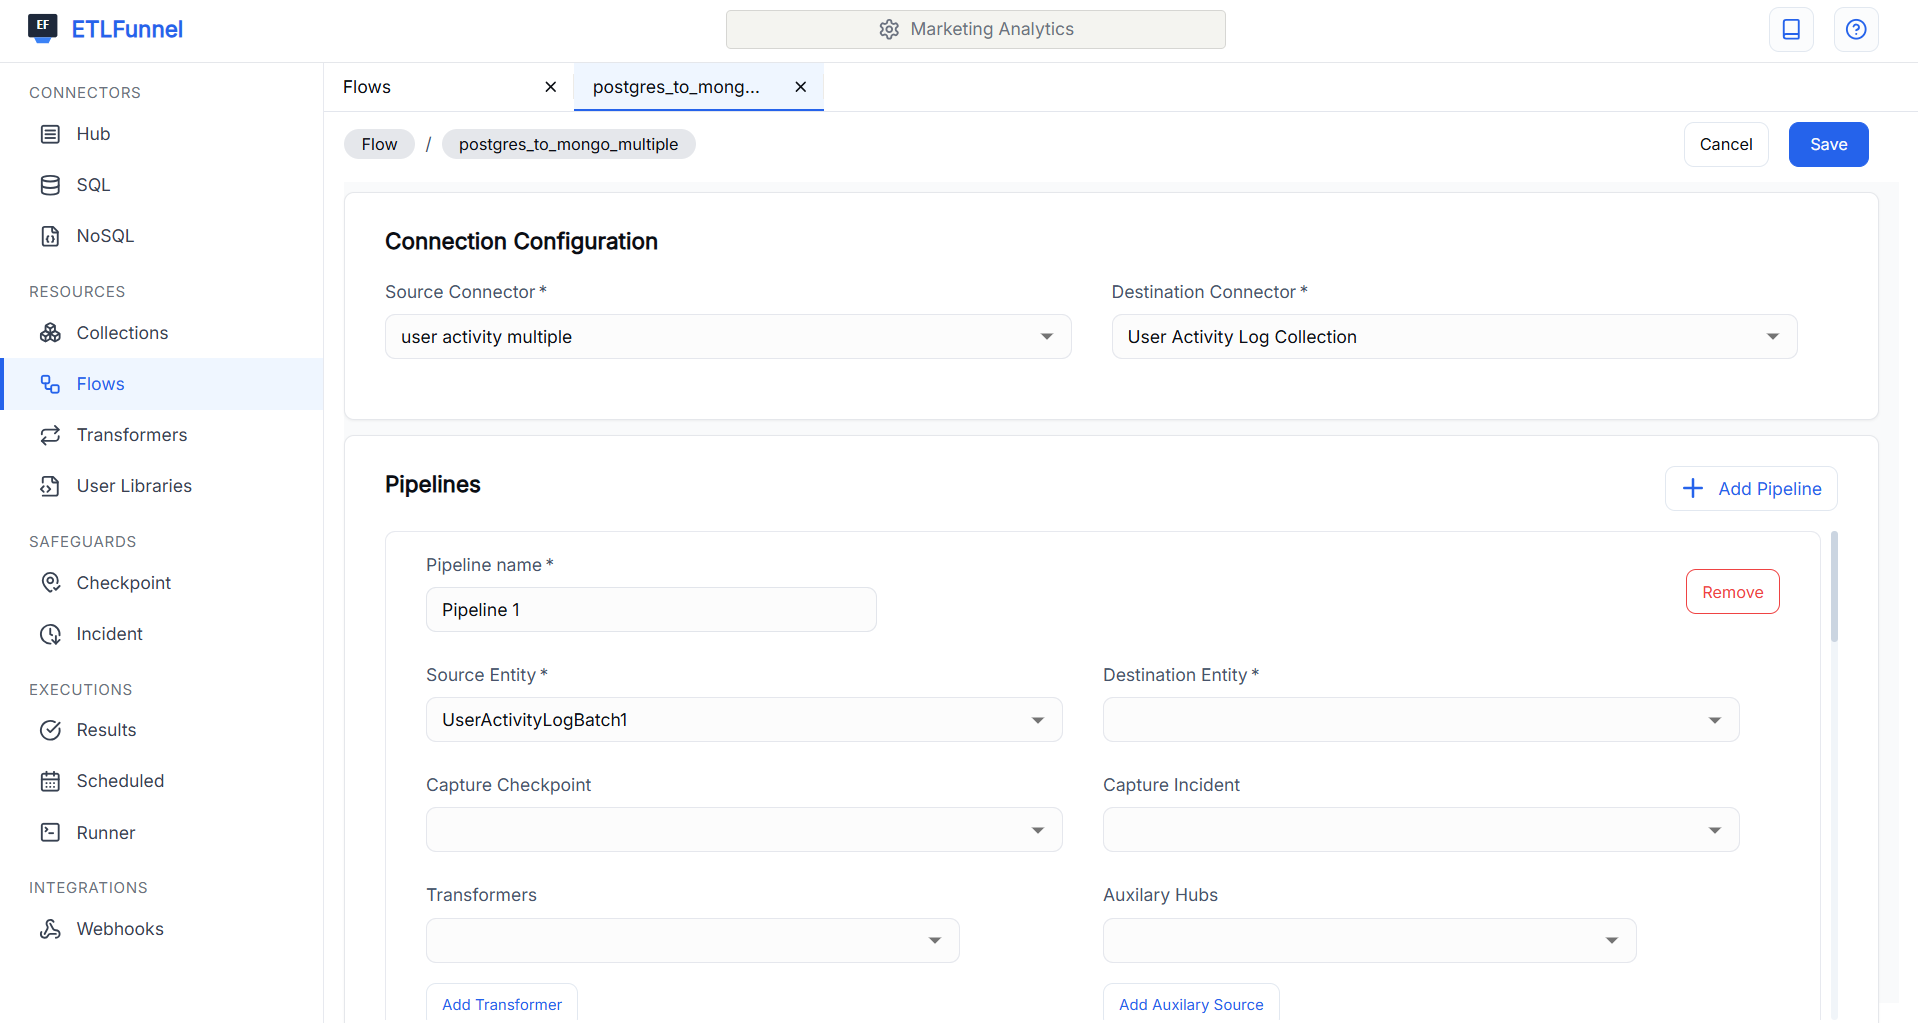
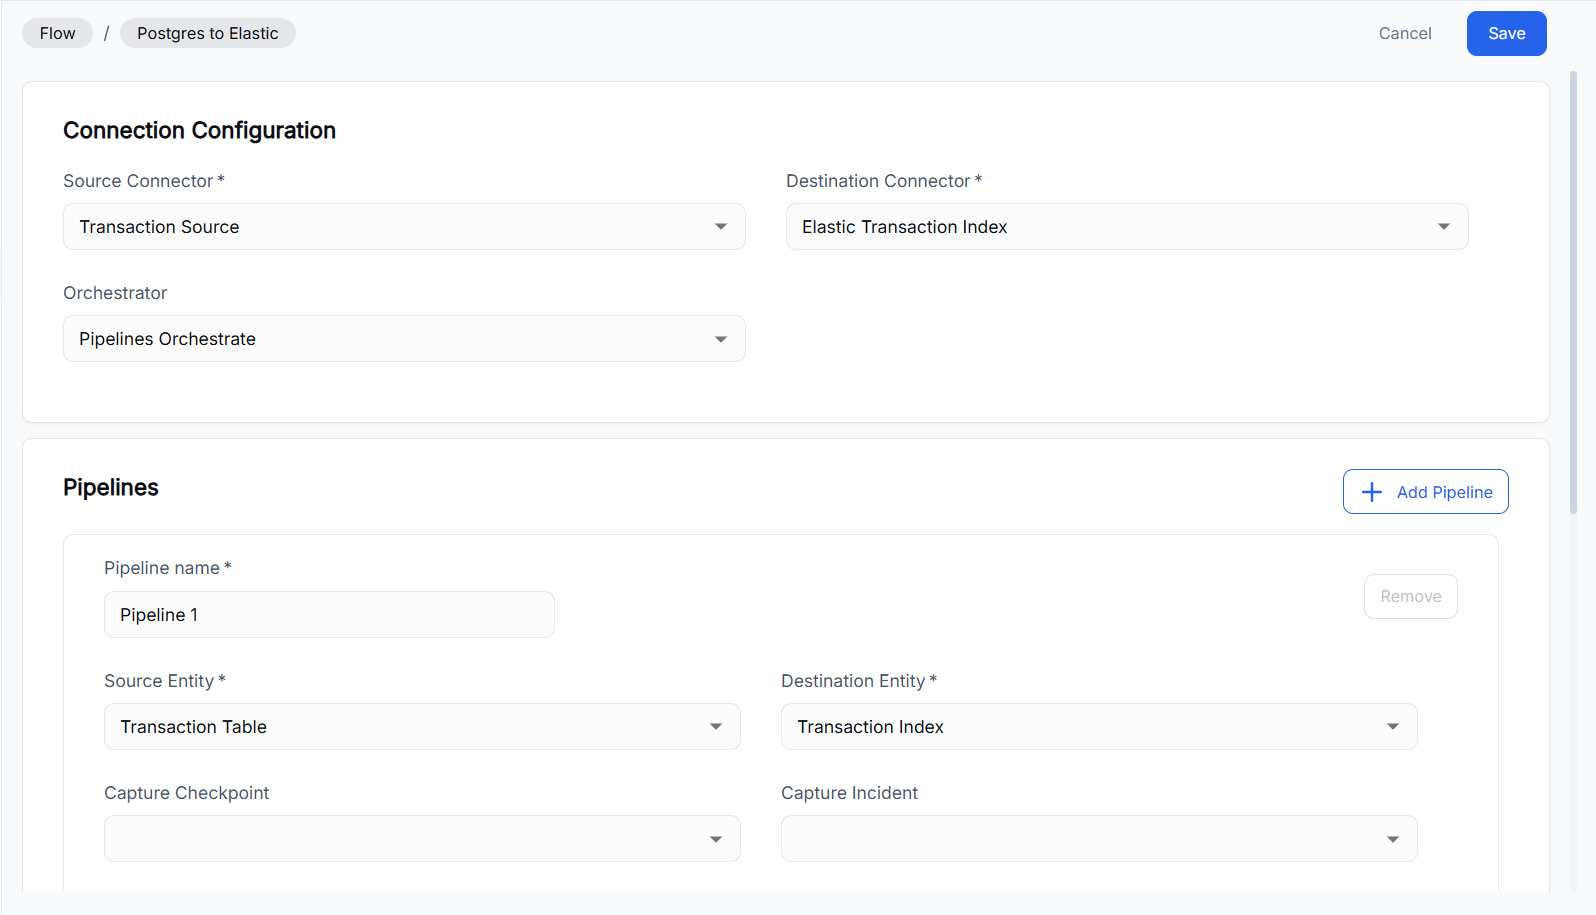
003: added orchestration

diff --git a/sidebars.ts b/sidebars.ts
@@ -37,7 +37,7 @@ const sidebars: SidebarsConfig = {
             collapsed: false,
             type: 'category',
             label: 'Resources',
-            items: ['resource-flow', 'resource-collection', 'user-libraries'],
+            items: ['resource-flow', 'resource-collection', 'resource-orchestrator', 'user-libraries'],
         },
         {
             collapsed: false,

diff --git a/docs/resource-orchestrator.md b/docs/resource-orchestrator.md
@@ -1,0 +1,169 @@
+# Orchestrators
+
+Dynamic Orchestration — tuning your ETL workload based on the machine and the data it's running on.
+
+## Use Case
+
+You've got 10 flows syncing data from Postgres to Elastic. They're running across multiple regions and machines:
+
+| Region | Machine Type | Postgres Schemas | Data Volume (per schema) |
+|--------|------------------|------------------|--------------------------|
+| US | 32-core, 128GB RAM | 200+ | Medium |
+| EU | 8-core, 32GB RAM | 50 | Small |
+| APAC | 16-core, 64GB RAM | 100 | Very Large |
+
+If you run the same orchestration plan everywhere, you'll waste compute in the US region and choke the EU one.
+
+This is where orchestration hooks come in — to shape your execution plan dynamically before any flow even starts.
+
+## The Concept: Orchestration Hooks
+
+An Orchestration Hook is a pre-step that decides how many replicas of a flow or pipeline should exist and how they should be distributed based on:
+
+- Available hardware (CPU, cores, memory)
+- Data volume (number of rows, partitions, tables)
+- Connection characteristics (source latency, throughput)
+
+You can define hooks at two levels:
+
+- **Flow Level** — to replicate entire flows
+- **Pipeline Level** — to replicate pipelines inside a flow
+
+## The Implementation
+
+ETLFunnel's engine defines an orchestration contract:
+
+```go
+type OrchestratorEntityDef struct {
+    Name string
+    SourceDBConn IDatabaseEngine
+    DestDBConn IDatabaseEngine
+    AuxiliaryDBConnMap map[string]IDatabaseEngine
+}
+
+type OrchestratorProps struct {
+    Entity []OrchestratorEntityDef
+}
+
+type OrchestratorTune struct {
+    ParentEntityName string
+    NewEntityName string
+    ReplicaProps map[string]any
+}
+```
+
+The idea is simple: each entity represents a pipeline unit, and the orchestrator decides how many replicas to create and what their tuning parameters should be.
+
+### Flow-level orchestration — scale by CPU
+
+```go
+import (
+    "etlfunnel/execution/models"
+    "fmt"
+    "runtime"
+)
+
+func GetFlowOrchestration(param *models.OrchestratorProps) ([]models.OrchestratorTune, error) {
+    // Dynamically detect available CPU cores
+    numThreads := runtime.NumCPU()
+    
+    var replicas []models.OrchestratorTune
+    
+    for _, entity := range param.Entity {
+        for i := 0; i < numThreads; i++ {
+            replica := models.OrchestratorTune{
+                ParentEntityName: entity.Name,
+                NewEntityName: fmt.Sprintf("%s_core_%d", entity.Name, i),
+                ReplicaProps: map[string]any{
+                    "replica_id": i,
+                    "thread_id": i,
+                    "total_replicas": numThreads,
+                    "cpu_optimized": true,
+                },
+            }
+            replicas = append(replicas, replica)
+        }
+    }
+    
+    return replicas, nil
+}
+```
+
+This is a hardware-aware orchestration. Each pipeline replica maps to a CPU core, so your ETL workload scales automatically with the available cores on that node.
+
+### Pipeline-level orchestration — scale by data volume
+
+You can use your `SourceDBConn` (which implements `IDatabaseEngine`) to introspect data size and partition the workload accordingly.
+
+```go
+package client_orchestrator_pipeline
+
+import (
+    "etlfunnel/execution/models"
+    "fmt"
+)
+
+func GetPipelineOrchestration(param *models.OrchestratorProps) ([]models.OrchestratorTune, error) {
+    if param == nil {
+        return nil, fmt.Errorf("orchestrator props cannot be nil")
+    }
+    
+    var replicas []models.OrchestratorTune
+    
+    for _, entity := range param.Entity {
+        // Example: fetch table stats using your IDatabaseEngine
+        stats, err := entity.SourceDBConn.GetTableStats()
+        if err != nil {
+            return nil, fmt.Errorf("failed to fetch stats for %s: %v", entity.Name, err)
+        }
+        
+        // Split pipelines based on total row count
+        numReplicas := 1
+        if stats.TotalRows > 10_000_000 {
+            numReplicas = 4
+        } else if stats.TotalRows > 1_000_000 {
+            numReplicas = 2
+        }
+        
+        for i := 0; i < numReplicas; i++ {
+            replica := models.OrchestratorTune{
+                ParentEntityName: entity.Name,
+                NewEntityName: fmt.Sprintf("%s_partition_%d", entity.Name, i),
+                ReplicaProps: map[string]any{
+                    "replica_id": i,
+                    "total_replicas": numReplicas,
+                    "partition_hint": fmt.Sprintf("split_%d", i),
+                    "data_driven": true,
+                },
+            }
+            replicas = append(replicas, replica)
+        }
+    }
+    
+    return replicas, nil
+}
+```
+
+Now orchestration adapts not just to the machine, but also to the data itself. A pipeline that needs to move 100M rows automatically gets partitioned into multiple smaller replicas, each handling a subset.
+
+## Combined: Flow + Pipeline Orchestration
+
+In real-world setups, you can even chain both levels.
+
+For example:
+
+- Flow orchestration splits jobs by CPU capacity.
+- Pipeline orchestration further divides heavy tables within each flow.
+
+The result is a perfectly balanced plan — CPU-efficient, data-aware, and regionally optimized.
+
+## Why It Matters
+
+Dynamic orchestration gives you:
+
+- Predictable performance across heterogeneous environments.
+- Elastic scalability — every machine operates at full capacity.
+- Data-aware load balancing — big datasets automatically spread across workers.
+- Unified code — your flow definitions remain the same, only orchestration changes.
+
+You've effectively made your ETL system self-tuning — a foundational step toward distributed dataflow intelligence.

diff --git a/docs/resource-collection.md b/docs/resource-collection.md
@@ -3,6 +3,7 @@
 A **Collection** operates at the database layer and represents a grouping of homogeneous **Flows** that share the same source and destination database types. Collections enable you to manage ETL operations across multiple logical layers (Flows) of a database simultaneously.
 
 ## Collection Architecture
+<img src="/img/page_resource/collection.png" alt="Collection" height="300" /><br/><br/><br/>
 
 ```
 PostgreSQL Database
